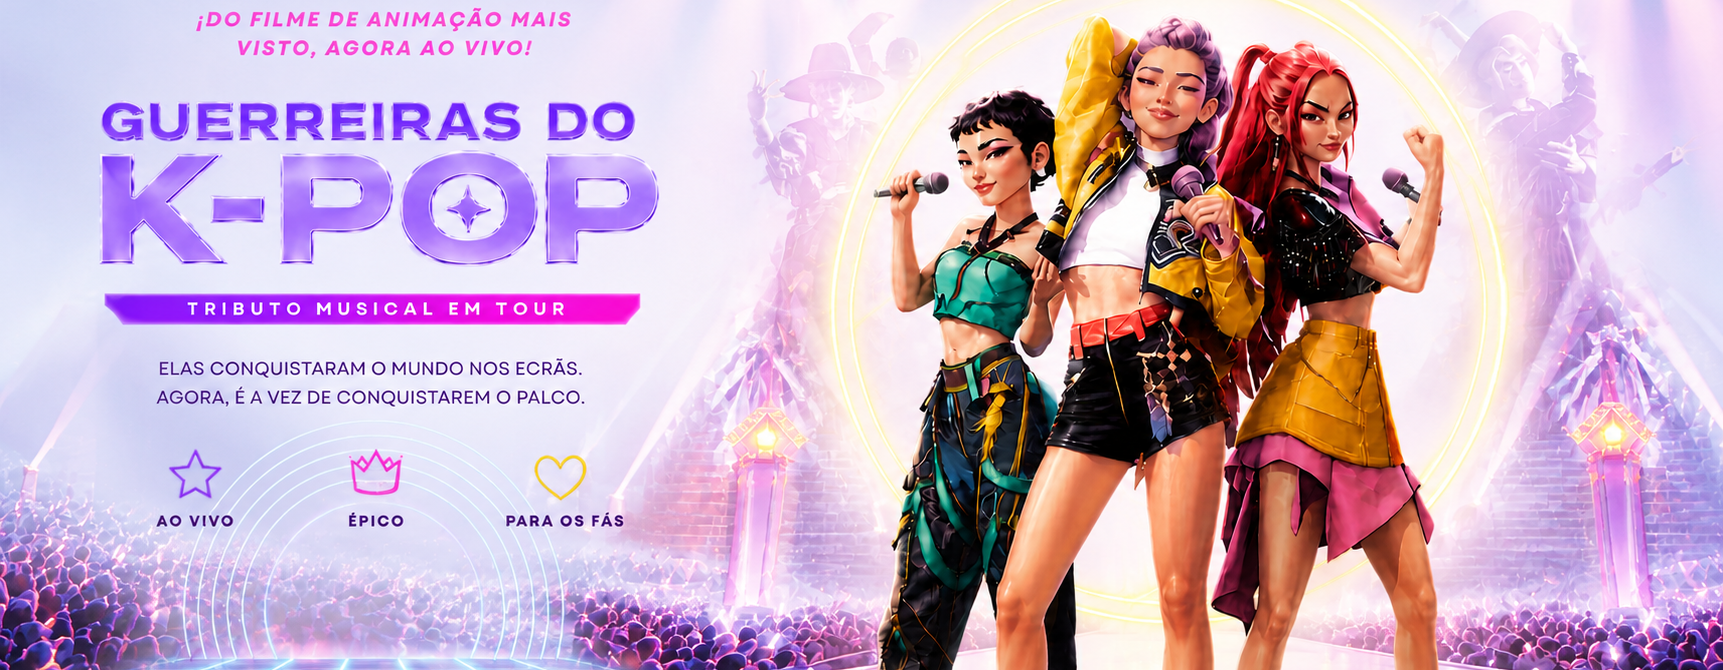
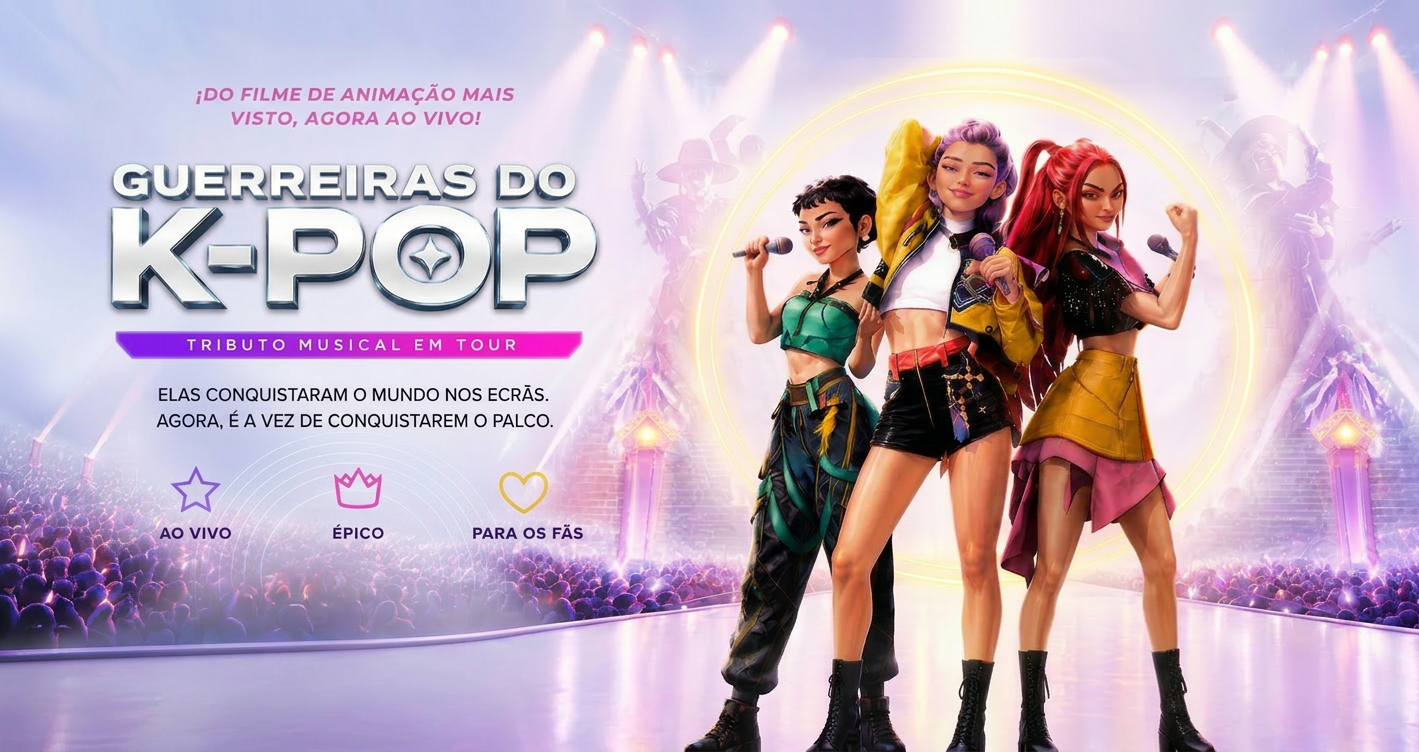
Hero: substituir ambas as imagens por versões alinhadas (1419x752)
O usuário forneceu 2 imagens novas com dimensões idênticas:
- hero-bg.png (NOITE): 1419x752 (substitui 1937x812)
- hero-bg-light.png (DIA): 1419x752 (substitui 1723x670)

Ambas as imagens têm:
- Mesmas dimensões (1419x752)
- Mesmo aspect ratio (1.887:1)
- Composição alinhada (personagens na mesma posição)

CSS simplificado:
- Removidos todos os crops/scales compensatórios anteriores
- object-position: center center em ambos os modos
- Sem animação de zoom
- Sem transform-origin (não há transform)
- Mobile: center 40% (mantém cara visível em portrait)

Resultado: alinhamento perfeito entre dia e noite, sem necessidade de ajustes CSS.

diff --git a/src/app/globals.css b/src/app/globals.css
@@ -1332,14 +1332,13 @@ html { scroll-behavior: smooth; }
   width: 100%;
   height: 100%;
   object-fit: cover;
-  /* Sem zoom — apenas a imagem estática cobrindo o ecrã.
-     object-position equal para ambos os modos para alinhar visualmente. */
+  /* Ambas as imagens (dia e noite) têm agora dimensões idênticas (1419x752, aspect 1.887:1)
+     e composição alinhada. object-position igual para ambos garante alinhamento perfeito. */
   object-position: center center;
   /* Sem animação de zoom (a pedido do user para não atrapalhar o alinhamento) */
   animation: none;
 }
-/* LIGHT mode: imagem foi recortada verticalmente (-14px do topo) para alinhar
-   com a escura. Sem scale compensatório — ambas ficam em scale 1.0. */
+/* LIGHT mode: mesma configuração que o dark - imagens já vêm alinhadas */
 .light-mode .hero-bg-img {
   animation: none;
 }
